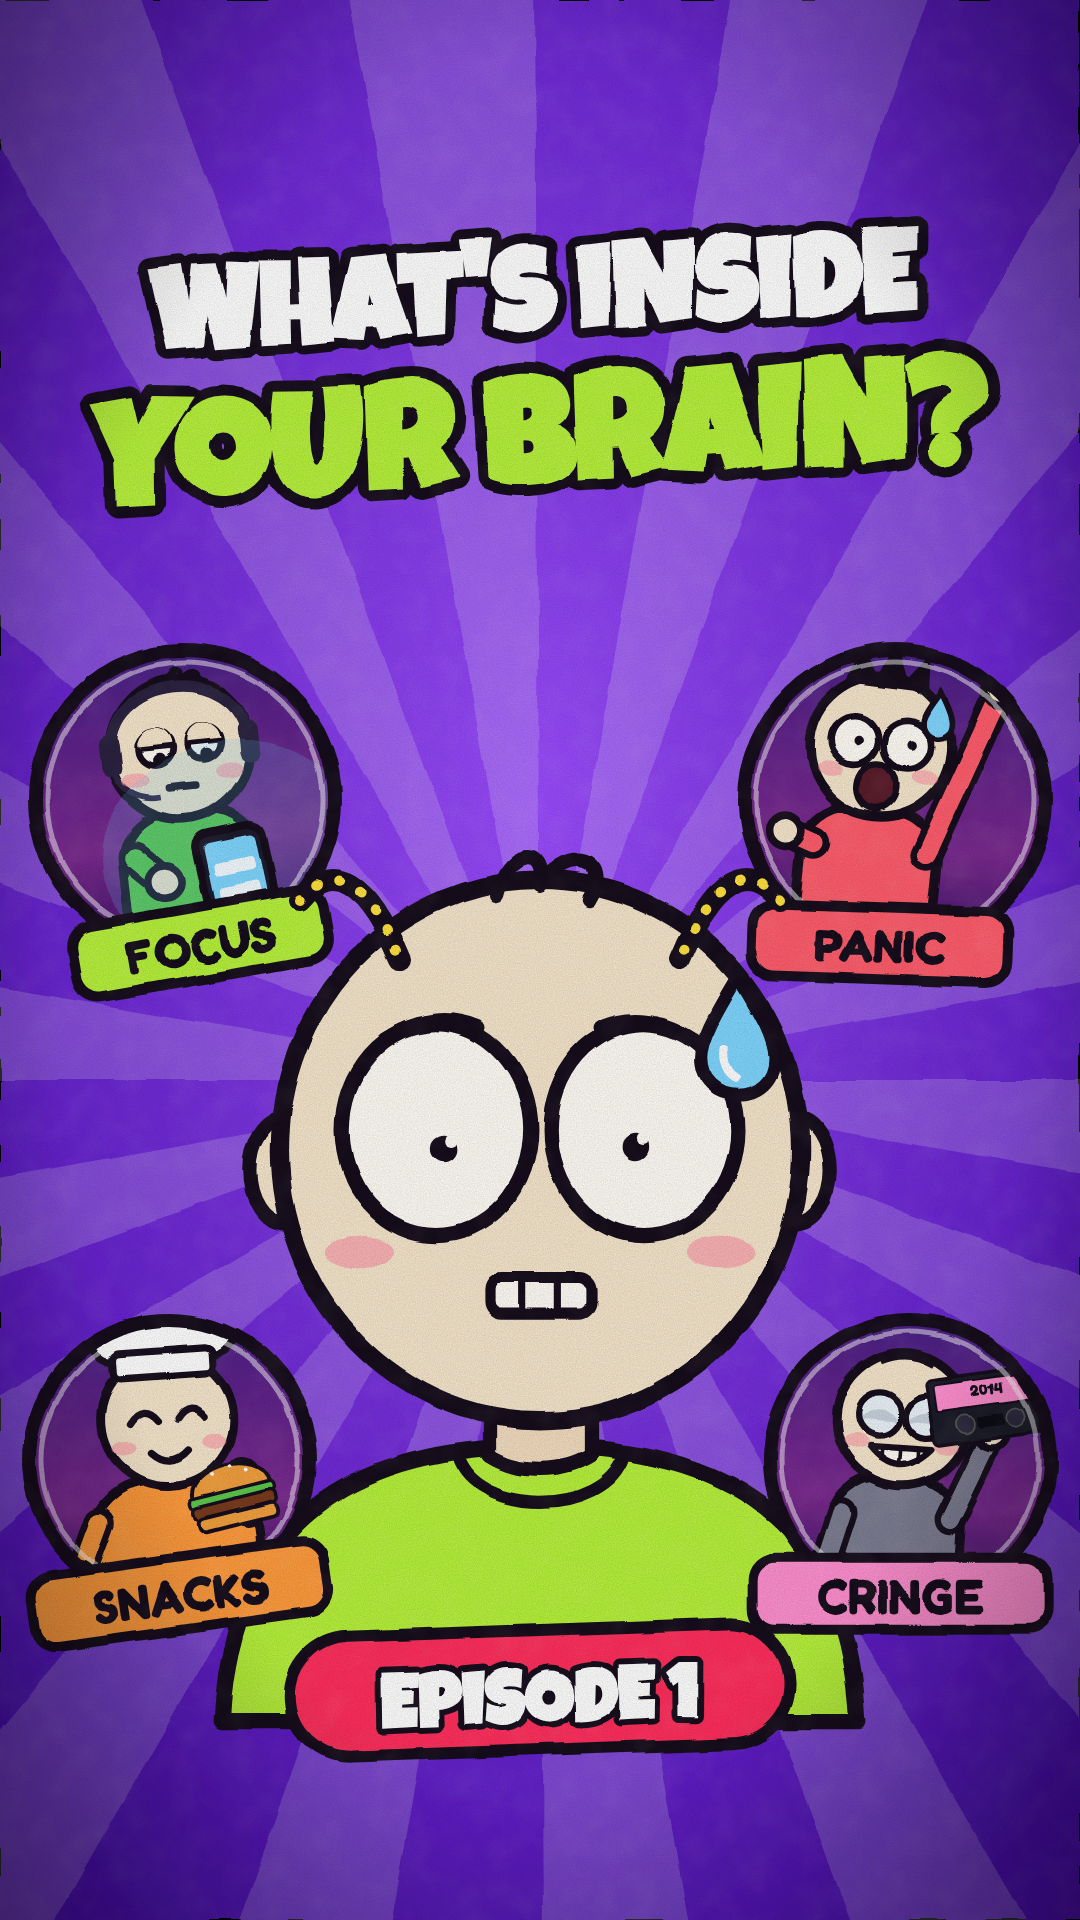
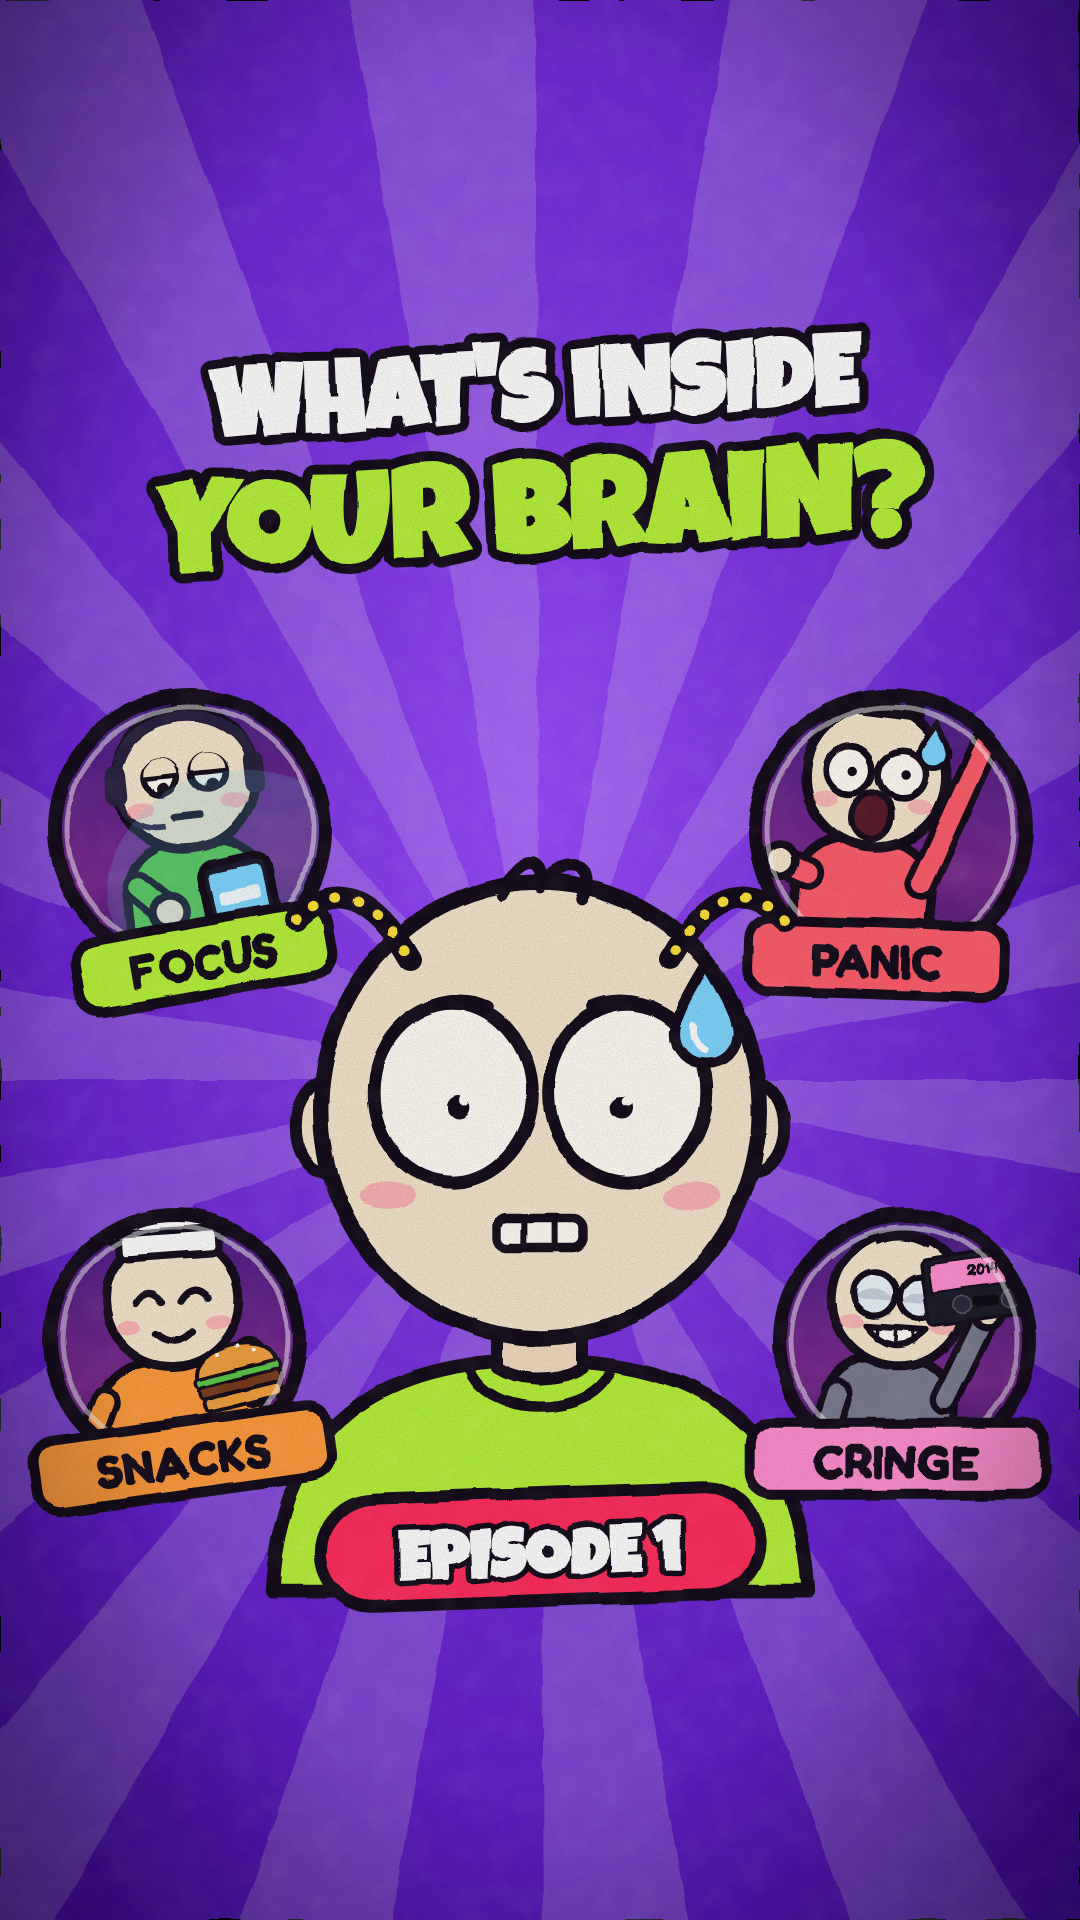
Fit episode cover inside TikTok's 3:4 cover crop
Claude-Session: https://claude.ai/code/session_013umtZpapvdkSnah8SkaV9k

diff --git a/episode-01/build/episode.html b/episode-01/build/episode.html
@@ -576,19 +576,19 @@ function sceneCover(){
   // radial burst
   s+=`<g transform="translate(540 1080)" opacity=".18">${[...Array(18)].map((_,i)=>`<path d="M0 0 L${Math.cos(i*Math.PI/9)*1400} ${Math.sin(i*Math.PI/9)*1400} L${Math.cos(i*Math.PI/9+.17)*1400} ${Math.sin(i*Math.PI/9+.17)*1400} Z" fill="#fff"/>`).join('')}</g>`;
   // title
-  s+=g('rotate(-3 540 380)',txt(540,330,"WHAT'S INSIDE",118,'#fff',{sw:20})+txt(540,480,'YOUR BRAIN?',150,LIME,{sw:22}));
+  s+=g('rotate(-3 540 450)',txt(540,420,"WHAT'S INSIDE",100,'#fff',{sw:18})+txt(540,550,'YOUR BRAIN?',128,LIME,{sw:20}));
   // you
-  s+=g('translate(540 1150) scale(1.02)',youHead({eyes:'huge',look:[0,6],mouth:'grit',sweat:true}));
+  s+=g('translate(540 1110) scale(.86)',youHead({eyes:'huge',look:[0,6],mouth:'grit',sweat:true}));
   // worker badges
-  s+=badge(185,800,150,g('translate(0 70) scale(.95)',worker({shirt:'#5ac94a',eyes:'droopy',look:[3,6],mouth:'flat',hair:'tuft',headset:true,lh:[-30,10],rh:[35,4]}))+phone(45,95,-6,t,true),'FOCUS','#b7f23a',-6);
-  s+=badge(895,800,150,g('translate(-20 70) scale(.95)',worker({shirt:'#ff5d6c',eyes:'frantic',look:[4,0],mouth:'scream',hair:'spike',sweat:true,lh:[-90,-30],rh:[120,-200]})),'PANIC','#ff5d6c',6);
-  s+=badge(170,1460,140,g('translate(0 75) scale(.9)',worker({shirt:'#ff9b3d',wide:true,eyes:'happy',mouth:'smile',hat:'chef',lh:[-110,40],rh:[80,-60]}))+food(60,40,'burger',.5,-10),'SNACKS','#ff9b3d',-4);
-  s+=badge(910,1460,140,g('translate(-10 75) scale(.9)',worker({shirt:'#7d7d92',eyes:'creepy',mouth:'grin',hair:'bald',glasses:true,glint:true,lh:[-80,60],rh:[100,-120]}))+vhs(75,-60,['2014'],'#ff8fd0',.35,-12),'CRINGE','#ff8fd0',4);
+  s+=badge(190,830,135,g('translate(0 70) scale(.95)',worker({shirt:'#5ac94a',eyes:'droopy',look:[3,6],mouth:'flat',hair:'tuft',headset:true,lh:[-30,10],rh:[35,4]}))+phone(45,95,-6,t,true),'FOCUS','#b7f23a',-6);
+  s+=badge(890,830,135,g('translate(-20 70) scale(.95)',worker({shirt:'#ff5d6c',eyes:'frantic',look:[4,0],mouth:'scream',hair:'spike',sweat:true,lh:[-90,-30],rh:[120,-200]})),'PANIC','#ff5d6c',6);
+  s+=badge(175,1340,125,g('translate(0 75) scale(.9)',worker({shirt:'#ff9b3d',wide:true,eyes:'happy',mouth:'smile',hat:'chef',lh:[-110,40],rh:[80,-60]}))+food(60,40,'burger',.5,-10),'SNACKS','#ff9b3d',-4);
+  s+=badge(905,1340,125,g('translate(-10 75) scale(.9)',worker({shirt:'#7d7d92',eyes:'creepy',mouth:'grin',hair:'bald',glasses:true,glint:true,lh:[-80,60],rh:[100,-120]}))+vhs(75,-60,['2014'],'#ff8fd0',.35,-12),'CRINGE','#ff8fd0',4);
   // arrows into head
   const arr=(x1,y1,x2,y2)=>`<path d="M${x1} ${y1} Q${(x1+x2)/2} ${Math.min(y1,y2)-60} ${x2} ${y2}" fill="none" stroke="${INK}" stroke-width="22" stroke-linecap="round"/><path d="M${x1} ${y1} Q${(x1+x2)/2} ${Math.min(y1,y2)-60} ${x2} ${y2}" fill="none" stroke="#ffe23a" stroke-width="10" stroke-linecap="round" stroke-dasharray="1 22"/>`;
-  s+=arr(300,900,400,960)+arr(780,900,680,960);
+  s+=arr(295,920,410,960)+arr(785,920,670,960);
   // episode tag
-  s+=g('translate(540 1700) rotate(-2)',`<rect x="-250" y="-70" width="500" height="120" rx="60" fill="#ff2e5c" stroke="${INK}" stroke-width="12"/>${txt(0,22,'EPISODE 1',76,'#fff',{sw:12})}`);
+  s+=g('translate(540 1555) rotate(-2)',`<rect x="-220" y="-62" width="440" height="108" rx="54" fill="#ff2e5c" stroke="${INK}" stroke-width="12"/>${txt(0,20,'EPISODE 1',68,'#fff',{sw:11})}`);
   return s;
 }
 window.renderCover=function(){
